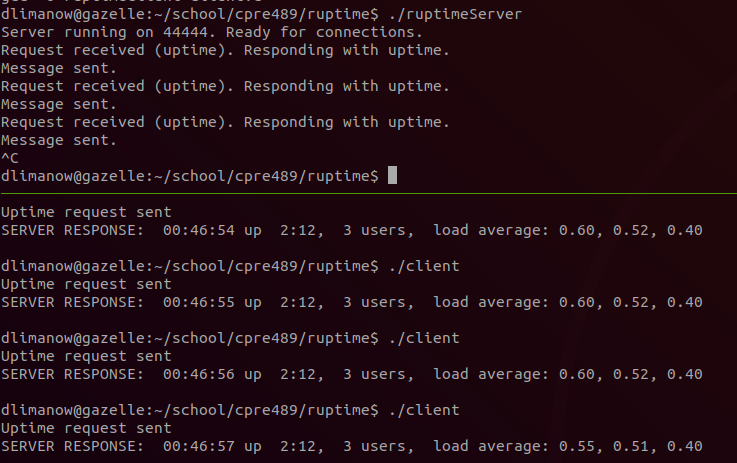
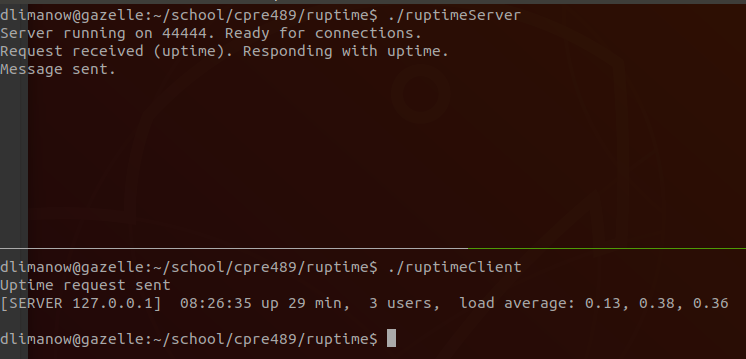
add list of servers

diff --git a/client.c b/client.c
@@ -13,31 +13,35 @@ int main(int argc, char const *argv[])
         struct sockaddr_in serv_addr;
         char *message = "uptime";
         char buffer[1024] = {0};
-
+        const char *servers[] = {"127.0.0.1"}; // add any server IP to list
+        int num_servers = sizeof(servers) / sizeof(servers[0]); 
+    
         if ((sock = socket(AF_INET, SOCK_STREAM, 0)) < 0) { 
-            printf("Failed to create socket."); 
+            printf("Failed to create socket.\n"); 
             return -1;
         }
 
         memset(&serv_addr, '0', sizeof(serv_addr)); // allocate memory to store address
-
-        serv_addr.sin_family = AF_INET; // IPv4
         serv_addr.sin_port = htons(PORT); // network byte order conversion
+        serv_addr.sin_family = AF_INET; // IPv4
 
-        // convert IP address from text to binary
-        if (inet_pton(AF_INET, "127.0.0.1", &serv_addr.sin_addr) <= 0) {
-                printf("Invalid address provided.");
-                return -1;
+        int i = 0;
+        for (i = 0; i < num_servers; i++) {
+            // convert IP address from text to binary
+            if (inet_pton(AF_INET, servers[i], &serv_addr.sin_addr) <= 0) {
+                    printf("Invalid address provided.\n");
+                    return -1;
+            }
+
+            if (connect(sock, (struct sockaddr *)&serv_addr, sizeof(serv_addr)) < 0) {
+                    printf("Connection Failed.\n");
+                    return -1;
+            }
+
+            send(sock, message, strlen(message), 0);
+            printf("Uptime request sent\n");
+            valread = read(sock, buffer, 1024);
+            printf("[SERVER %s] %s\n", servers[i], buffer);
         }
-
-        if (connect(sock, (struct sockaddr *)&serv_addr, sizeof(serv_addr)) < 0) {
-                printf("\nConnection Failed \n");
-                return -1;
-        }
-
-        send(sock, message, strlen(message), 0);
-        printf("Uptime request sent\n");
-        valread = read(sock, buffer, 1024);
-        printf("SERVER RESPONSE: %s\n", buffer);
         return 0;
 }
